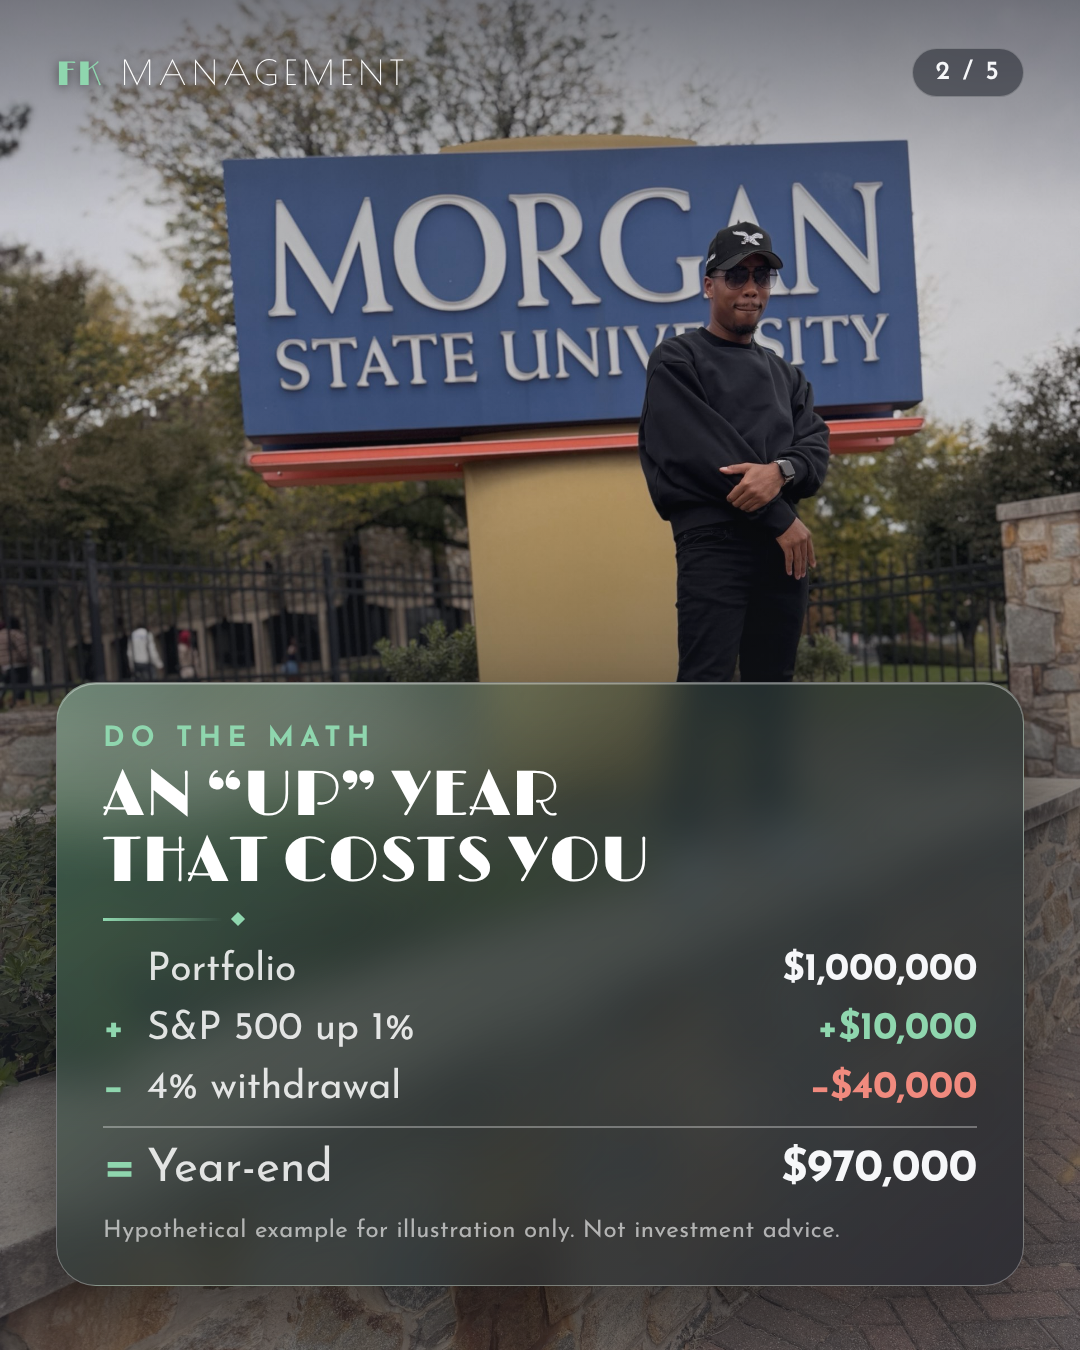
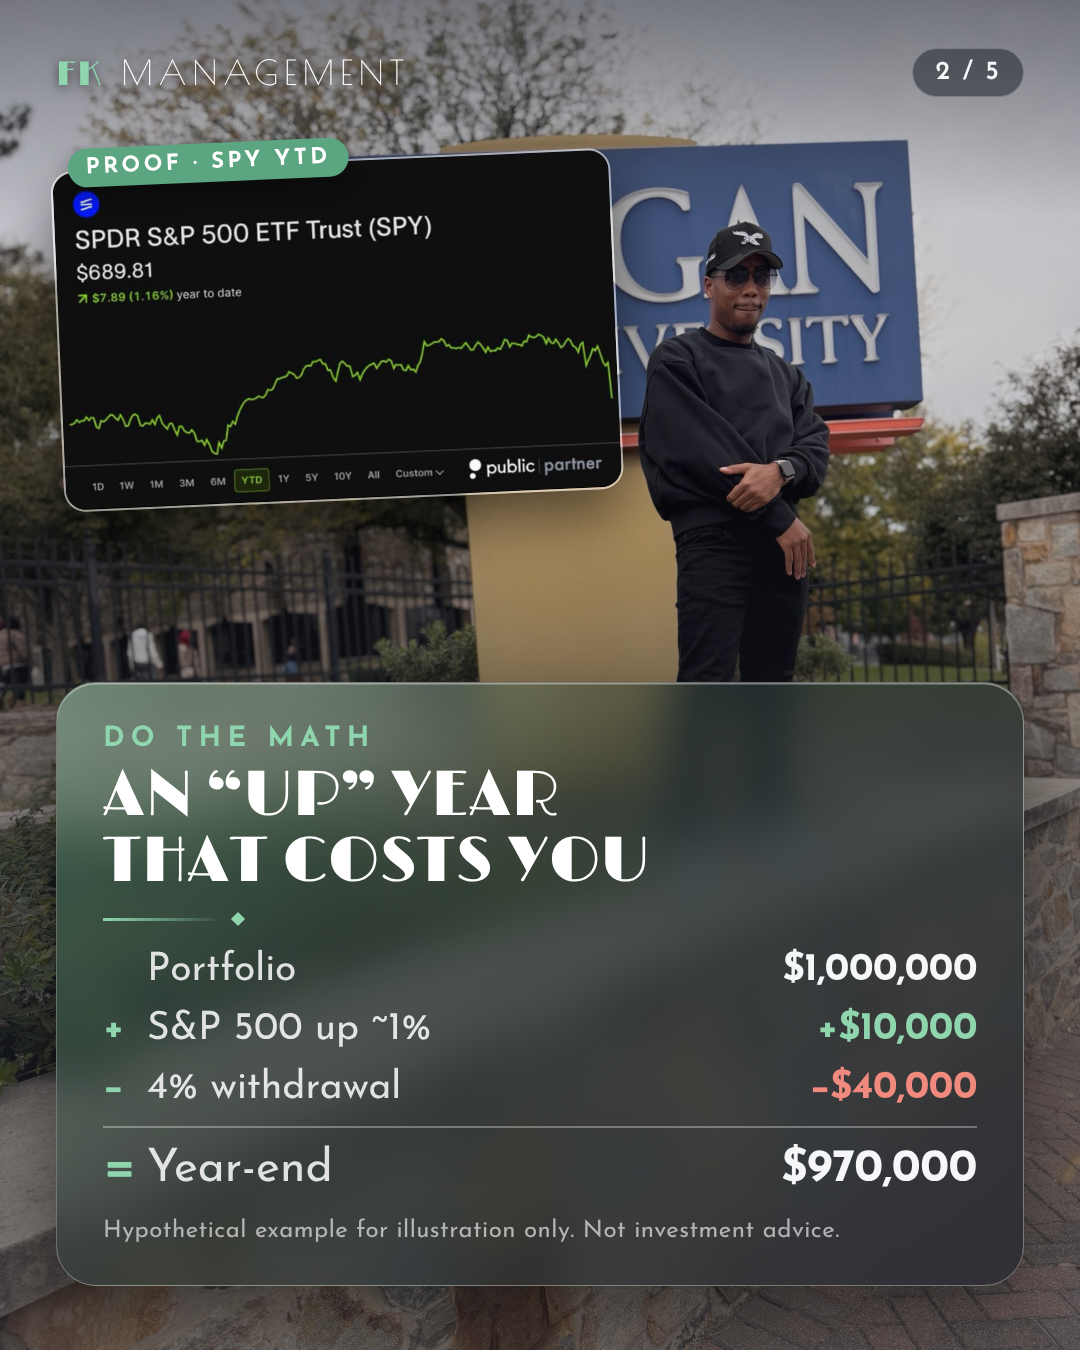
Sequence-risk carousel: add SPY YTD proof card to slide 2
Claude-Session: https://claude.ai/code/session_013ZqM9nBy9ph7Ra2heZCk6W

Changed region(s): [[0.0306, 0.0933, 0.6111, 0.4044], [0.3361, 0.7467, 0.3972, 0.7778]]

diff --git a/video-editor/projects/carousel-sequence-risk/slide-2.html b/video-editor/projects/carousel-sequence-risk/slide-2.html
@@ -45,6 +45,11 @@ html, body { width: 1080px; height: 1350px; overflow: hidden; background: #20242
 .tile .seq { font-weight: 700; font-size: 32px; margin-top: 10px; }
 .tile .end { font-family: 'Limelight', serif; font-size: 50px; margin-top: 12px; }
 .tile.good { border-color: rgba(143,214,174,0.6); } .tile.bad { border-color: rgba(240,138,126,0.6); }
+.proof { position: absolute; left: 50px; top: 172px; width: 560px; transform: rotate(-2.5deg); transform-origin: left top; }
+.proof img { display: block; width: 100%; border-radius: 22px; border: 2px solid rgba(255,255,255,0.55);
+              box-shadow: 0 24px 60px rgba(0,0,0,0.55); }
+.proof .tag { position: absolute; left: 18px; top: -22px; padding: 8px 18px; border-radius: 22px; background: #5CA581; color: #fff;
+               font-weight: 700; font-size: 22px; letter-spacing: 0.16em; text-transform: uppercase; box-shadow: 0 8px 20px rgba(0,0,0,0.35); }
 .cta { display: flex; align-items: center; justify-content: center; gap: 14px; margin-top: 28px; height: 96px; border-radius: 48px;
         background: #3B7F5E; font-weight: 700; font-size: 34px; box-shadow: 0 14px 36px rgba(59,127,94,0.5); }
 .sig { margin-top: 18px; font-size: 26px; color: rgba(255,255,255,0.8); text-align: center; }
@@ -54,13 +59,14 @@ html, body { width: 1080px; height: 1350px; overflow: hidden; background: #20242
 <div class="brand"><b>FK</b> MANAGEMENT</div>
 <div class="count">2 / 5</div>
 
+<div class="proof"><div class="tag">Proof &middot; SPY YTD</div><img src="photos/spy_ytd.png" alt="SPY up 1.16% year to date"></div>
 <div class="glass" style="left:56px; right:56px; bottom:64px;">
   <div class="kicker">Do the math</div>
   <div class="deco" style="font-size:64px; margin-top:10px;">An &ldquo;up&rdquo; year<br>that costs you</div>
   <div class="rule"></div>
   <div class="math">
     <div class="row"><span class="k"><span class="op"></span>Portfolio</span><span class="v">$1,000,000</span></div>
-    <div class="row"><span class="k"><span class="op">+</span>S&amp;P 500 up 1%</span><span class="v pos">+$10,000</span></div>
+    <div class="row"><span class="k"><span class="op">+</span>S&amp;P 500 up ~1%</span><span class="v pos">+$10,000</span></div>
     <div class="row"><span class="k"><span class="op">&minus;</span>4% withdrawal</span><span class="v neg">&minus;$40,000</span></div>
     <div class="line"></div>
     <div class="row total"><span class="k"><span class="op">=</span>Year-end</span><span class="v">$970,000</span></div>

diff --git a/video-editor/projects/carousel-sequence-risk/slide-1.html b/video-editor/projects/carousel-sequence-risk/slide-1.html
@@ -45,6 +45,11 @@ html, body { width: 1080px; height: 1350px; overflow: hidden; background: #20242
 .tile .seq { font-weight: 700; font-size: 32px; margin-top: 10px; }
 .tile .end { font-family: 'Limelight', serif; font-size: 50px; margin-top: 12px; }
 .tile.good { border-color: rgba(143,214,174,0.6); } .tile.bad { border-color: rgba(240,138,126,0.6); }
+.proof { position: absolute; left: 50px; top: 172px; width: 560px; transform: rotate(-2.5deg); transform-origin: left top; }
+.proof img { display: block; width: 100%; border-radius: 22px; border: 2px solid rgba(255,255,255,0.55);
+              box-shadow: 0 24px 60px rgba(0,0,0,0.55); }
+.proof .tag { position: absolute; left: 18px; top: -22px; padding: 8px 18px; border-radius: 22px; background: #5CA581; color: #fff;
+               font-weight: 700; font-size: 22px; letter-spacing: 0.16em; text-transform: uppercase; box-shadow: 0 8px 20px rgba(0,0,0,0.35); }
 .cta { display: flex; align-items: center; justify-content: center; gap: 14px; margin-top: 28px; height: 96px; border-radius: 48px;
         background: #3B7F5E; font-weight: 700; font-size: 34px; box-shadow: 0 14px 36px rgba(59,127,94,0.5); }
 .sig { margin-top: 18px; font-size: 26px; color: rgba(255,255,255,0.8); text-align: center; }

diff --git a/video-editor/projects/carousel-sequence-risk/slide-3.html b/video-editor/projects/carousel-sequence-risk/slide-3.html
@@ -45,6 +45,11 @@ html, body { width: 1080px; height: 1350px; overflow: hidden; background: #20242
 .tile .seq { font-weight: 700; font-size: 32px; margin-top: 10px; }
 .tile .end { font-family: 'Limelight', serif; font-size: 50px; margin-top: 12px; }
 .tile.good { border-color: rgba(143,214,174,0.6); } .tile.bad { border-color: rgba(240,138,126,0.6); }
+.proof { position: absolute; left: 50px; top: 172px; width: 560px; transform: rotate(-2.5deg); transform-origin: left top; }
+.proof img { display: block; width: 100%; border-radius: 22px; border: 2px solid rgba(255,255,255,0.55);
+              box-shadow: 0 24px 60px rgba(0,0,0,0.55); }
+.proof .tag { position: absolute; left: 18px; top: -22px; padding: 8px 18px; border-radius: 22px; background: #5CA581; color: #fff;
+               font-weight: 700; font-size: 22px; letter-spacing: 0.16em; text-transform: uppercase; box-shadow: 0 8px 20px rgba(0,0,0,0.35); }
 .cta { display: flex; align-items: center; justify-content: center; gap: 14px; margin-top: 28px; height: 96px; border-radius: 48px;
         background: #3B7F5E; font-weight: 700; font-size: 34px; box-shadow: 0 14px 36px rgba(59,127,94,0.5); }
 .sig { margin-top: 18px; font-size: 26px; color: rgba(255,255,255,0.8); text-align: center; }

diff --git a/video-editor/projects/carousel-sequence-risk/slide-4.html b/video-editor/projects/carousel-sequence-risk/slide-4.html
@@ -45,6 +45,11 @@ html, body { width: 1080px; height: 1350px; overflow: hidden; background: #20242
 .tile .seq { font-weight: 700; font-size: 32px; margin-top: 10px; }
 .tile .end { font-family: 'Limelight', serif; font-size: 50px; margin-top: 12px; }
 .tile.good { border-color: rgba(143,214,174,0.6); } .tile.bad { border-color: rgba(240,138,126,0.6); }
+.proof { position: absolute; left: 50px; top: 172px; width: 560px; transform: rotate(-2.5deg); transform-origin: left top; }
+.proof img { display: block; width: 100%; border-radius: 22px; border: 2px solid rgba(255,255,255,0.55);
+              box-shadow: 0 24px 60px rgba(0,0,0,0.55); }
+.proof .tag { position: absolute; left: 18px; top: -22px; padding: 8px 18px; border-radius: 22px; background: #5CA581; color: #fff;
+               font-weight: 700; font-size: 22px; letter-spacing: 0.16em; text-transform: uppercase; box-shadow: 0 8px 20px rgba(0,0,0,0.35); }
 .cta { display: flex; align-items: center; justify-content: center; gap: 14px; margin-top: 28px; height: 96px; border-radius: 48px;
         background: #3B7F5E; font-weight: 700; font-size: 34px; box-shadow: 0 14px 36px rgba(59,127,94,0.5); }
 .sig { margin-top: 18px; font-size: 26px; color: rgba(255,255,255,0.8); text-align: center; }

diff --git a/video-editor/projects/carousel-sequence-risk/slide-5.html b/video-editor/projects/carousel-sequence-risk/slide-5.html
@@ -45,6 +45,11 @@ html, body { width: 1080px; height: 1350px; overflow: hidden; background: #20242
 .tile .seq { font-weight: 700; font-size: 32px; margin-top: 10px; }
 .tile .end { font-family: 'Limelight', serif; font-size: 50px; margin-top: 12px; }
 .tile.good { border-color: rgba(143,214,174,0.6); } .tile.bad { border-color: rgba(240,138,126,0.6); }
+.proof { position: absolute; left: 50px; top: 172px; width: 560px; transform: rotate(-2.5deg); transform-origin: left top; }
+.proof img { display: block; width: 100%; border-radius: 22px; border: 2px solid rgba(255,255,255,0.55);
+              box-shadow: 0 24px 60px rgba(0,0,0,0.55); }
+.proof .tag { position: absolute; left: 18px; top: -22px; padding: 8px 18px; border-radius: 22px; background: #5CA581; color: #fff;
+               font-weight: 700; font-size: 22px; letter-spacing: 0.16em; text-transform: uppercase; box-shadow: 0 8px 20px rgba(0,0,0,0.35); }
 .cta { display: flex; align-items: center; justify-content: center; gap: 14px; margin-top: 28px; height: 96px; border-radius: 48px;
         background: #3B7F5E; font-weight: 700; font-size: 34px; box-shadow: 0 14px 36px rgba(59,127,94,0.5); }
 .sig { margin-top: 18px; font-size: 26px; color: rgba(255,255,255,0.8); text-align: center; }

diff --git a/video-editor/projects/carousel-sequence-risk/build.py b/video-editor/projects/carousel-sequence-risk/build.py
@@ -57,6 +57,11 @@ html, body {{ width: 1080px; height: 1350px; overflow: hidden; background: {CHAR
 .tile .seq {{ font-weight: 700; font-size: 32px; margin-top: 10px; }}
 .tile .end {{ font-family: 'Limelight', serif; font-size: 50px; margin-top: 12px; }}
 .tile.good {{ border-color: rgba(143,214,174,0.6); }} .tile.bad {{ border-color: rgba(240,138,126,0.6); }}
+.proof {{ position: absolute; left: 50px; top: 172px; width: 560px; transform: rotate(-2.5deg); transform-origin: left top; }}
+.proof img {{ display: block; width: 100%; border-radius: 22px; border: 2px solid rgba(255,255,255,0.55);
+              box-shadow: 0 24px 60px rgba(0,0,0,0.55); }}
+.proof .tag {{ position: absolute; left: 18px; top: -22px; padding: 8px 18px; border-radius: 22px; background: {SAGE}; color: #fff;
+               font-weight: 700; font-size: 22px; letter-spacing: 0.16em; text-transform: uppercase; box-shadow: 0 8px 20px rgba(0,0,0,0.35); }}
 .cta {{ display: flex; align-items: center; justify-content: center; gap: 14px; margin-top: 28px; height: 96px; border-radius: 48px;
         background: #3B7F5E; font-weight: 700; font-size: 34px; box-shadow: 0 14px 36px rgba(59,127,94,0.5); }}
 .sig {{ margin-top: 18px; font-size: 26px; color: rgba(255,255,255,0.8); text-align: center; }}
@@ -88,13 +93,14 @@ slides = [
   <div class="swipe" style="margin-top:20px; padding:12px 26px; font-size:30px;">Swipe {ARROW}</div>
 </div>""", shade="cover"),
     page(2, "2_side.jpg", "50% 20%", f"""
+<div class="proof"><div class="tag">Proof &middot; SPY YTD</div><img src="photos/spy_ytd.png" alt="SPY up 1.16% year to date"></div>
 <div class="glass" style="left:56px; right:56px; bottom:64px;">
   <div class="kicker">Do the math</div>
   <div class="deco" style="font-size:64px; margin-top:10px;">An &ldquo;up&rdquo; year<br>that costs you</div>
   <div class="rule"></div>
   <div class="math">
     <div class="row"><span class="k"><span class="op"></span>Portfolio</span><span class="v">$1,000,000</span></div>
-    <div class="row"><span class="k"><span class="op">+</span>S&amp;P 500 up 1%</span><span class="v pos">+$10,000</span></div>
+    <div class="row"><span class="k"><span class="op">+</span>S&amp;P 500 up ~1%</span><span class="v pos">+$10,000</span></div>
     <div class="row"><span class="k"><span class="op">&minus;</span>4% withdrawal</span><span class="v neg">&minus;$40,000</span></div>
     <div class="line"></div>
     <div class="row total"><span class="k"><span class="op">=</span>Year-end</span><span class="v">$970,000</span></div>
